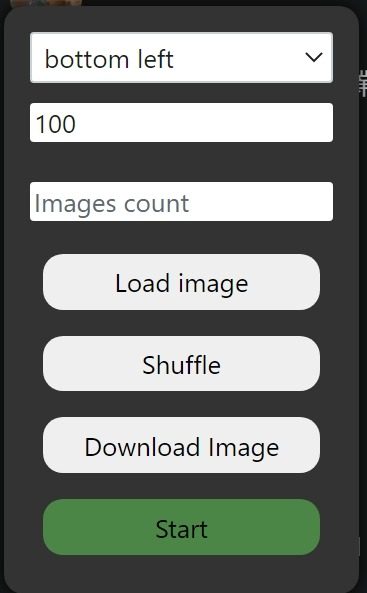
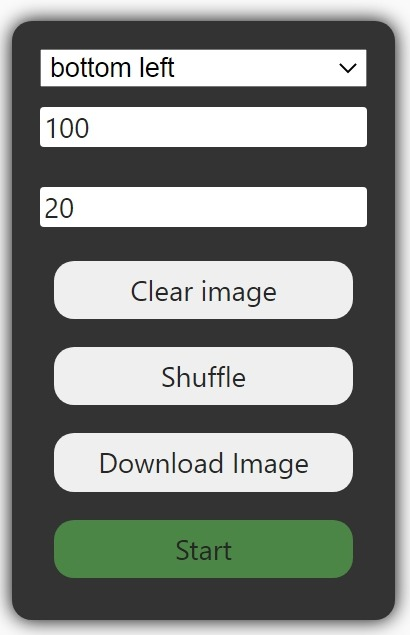
Add thumbnail to focus view

diff --git a/main.js b/main.js
@@ -1,7 +1,7 @@
 // ==UserScript==
 // @name         New Userscript
 // @namespace    http://tampermonkey.net/
-// @version      0.3
+// @version      0.4
 // @description  Browse Facebook images in a focus mode.
 // @author       Warrenww
 // @include      /https:\/\/www\.(facebook|instagram)\.com\/.*/
@@ -37,7 +37,7 @@
   `;
 
   window.onload = function() {
-  const scrollParent = document.getElementById('facebook') || document.getElementById('react-root');
+  const scrollParent = document.body.parentElement;
   const container = CreateElement({
     type: 'div',
     text: '',
@@ -145,24 +145,27 @@
 
     do {
       scrollParent.scrollTop = scrollParent.scrollHeight;
-      Images.length = 0;
       Array.from(document.querySelectorAll('img'))
         .filter(x => x.width > s)
-        .forEach((x, i) => Images[i] = x);
+        .forEach((x, i) => !(Images.includes(x)) && Images.push(x));
 
       ImgBox.innerText = `Loading ${Images.length} / ${n}`
       await sleep(100);
-    } while (Images.length < n)
+    } while (Images.length < n);
 
     ImgBox.remove();
     Images.forEach((x, i) => DisplayImages[i] = x);
+    return Promise.resolve();
   }
 
   const btn_1 = CreateElement({
     type: 'button',
-    text: 'Load image',
+    text: 'Clear image',
     style: btnStyle,
-    onclick: LoadImages,
+    onclick: () => {
+      Images.length = 0;
+      DisplayImages.length = 0;
+    },
   });
   container.append(btn_1);
 
@@ -218,7 +221,8 @@
   }
 
   let idx = 0;
-  const start = () => {
+  const start = async () => {
+    await LoadImages();
     const ImgBox = CreateElement({
       type: 'div',
       style: `
@@ -234,10 +238,42 @@
         backdrop-filter: blur(5px);
       `,
       id: 'my-img-container',
+      onscroll: (e) => e.stopPropagation(),
     });
 
     document.body.append(ImgBox);
     displayImage(idx);
+
+    const ImagesThumbnailContainer = CreateElement({
+      type: 'div',
+      style: `
+        width: 120px;
+        height: 90vh;
+        position: absolute;
+        overflow-y: scroll;
+        top: 5vh;
+        right: 0px;
+        display: flex;
+        align-items: center;
+        flex-direction: column;
+      `
+    });
+    ImgBox.append(ImagesThumbnailContainer);
+    DisplayImages.forEach((x, i) => ImagesThumbnailContainer.append(CreateElement({
+      type: 'img',
+      src: x.src,
+      style: `
+        width: 90px;
+        height: 90px;
+        object-fit: cover;
+        margin-bottom: .5em;
+        cursor: pointer;
+      `,
+      onclick: () => {
+        idx = i;
+        displayImage(i);
+      },
+    })));
 
     const stop = () => {
       ImgBox.remove();

diff --git a/README.md b/README.md
@@ -17,10 +17,17 @@
 - First row is for change panel position.
 - Second row is for setting image size filter, all images which width value in pixel below this will be ignored.
 - Third row is to set the minimum numbers of image should be loaded. Page will automatically scroll down and load images until the number of images reached the minimum value.
-- **Load image:** Start loading image, also can be triggered by pressing enter when `Images count` input is focused.
+- **Clear image:** Clear the stored images queue.
 - **Shuffle:** Randomly shuffle the loaded images.
 - **Download image:** Download the image currently shown.
-- **Start:** Start the focus view mode. In the focus view mode, all the original content will be blurred, and image will be displayed in the center of the screen with appropriate size. Navigate to the next/previous image by pressing left or right arrow. Press escape or click `stop` to exit the focus view mode.
+- **Start:** Load the images and start the focus view mode.
+
+In the focus view mode, all the original content will be blurred, and image will be displayed in the center of the screen with appropriate size. Navigate to the next/previous image by pressing left or right arrow. Press escape or click `stop` to exit the focus view mode.
+
+### Load images from Instagram story
+Once you have clicked the `Start` the load images process will start collecting all image on your screen, it will display a progress screen to show how many images are already loaded. This progress screen can be dismissed by clicking it. However, the loading process will remain in background. Until the number of images loaded reached the minimum value setting, the Focus view  will start.
+
+When you starting browsing the Instagram story, you can set the minimum loaded value at the first, and dismiss the progress screen. Once a new story is loaded, it will be immediately add to the images queue. After you finish, you can re-visit the story you have seen before in the focus mode. And they can be download too!
 
 ## How does it work?
 Using the `querySelectorAll` function to choose all loaded images in each posts, and filtered by 2 filter function and store the results in an array.
@@ -54,4 +61,3 @@ downloadLink.click();
 
 ## Future work
 - Batch images download.
-- Support Instagram.
